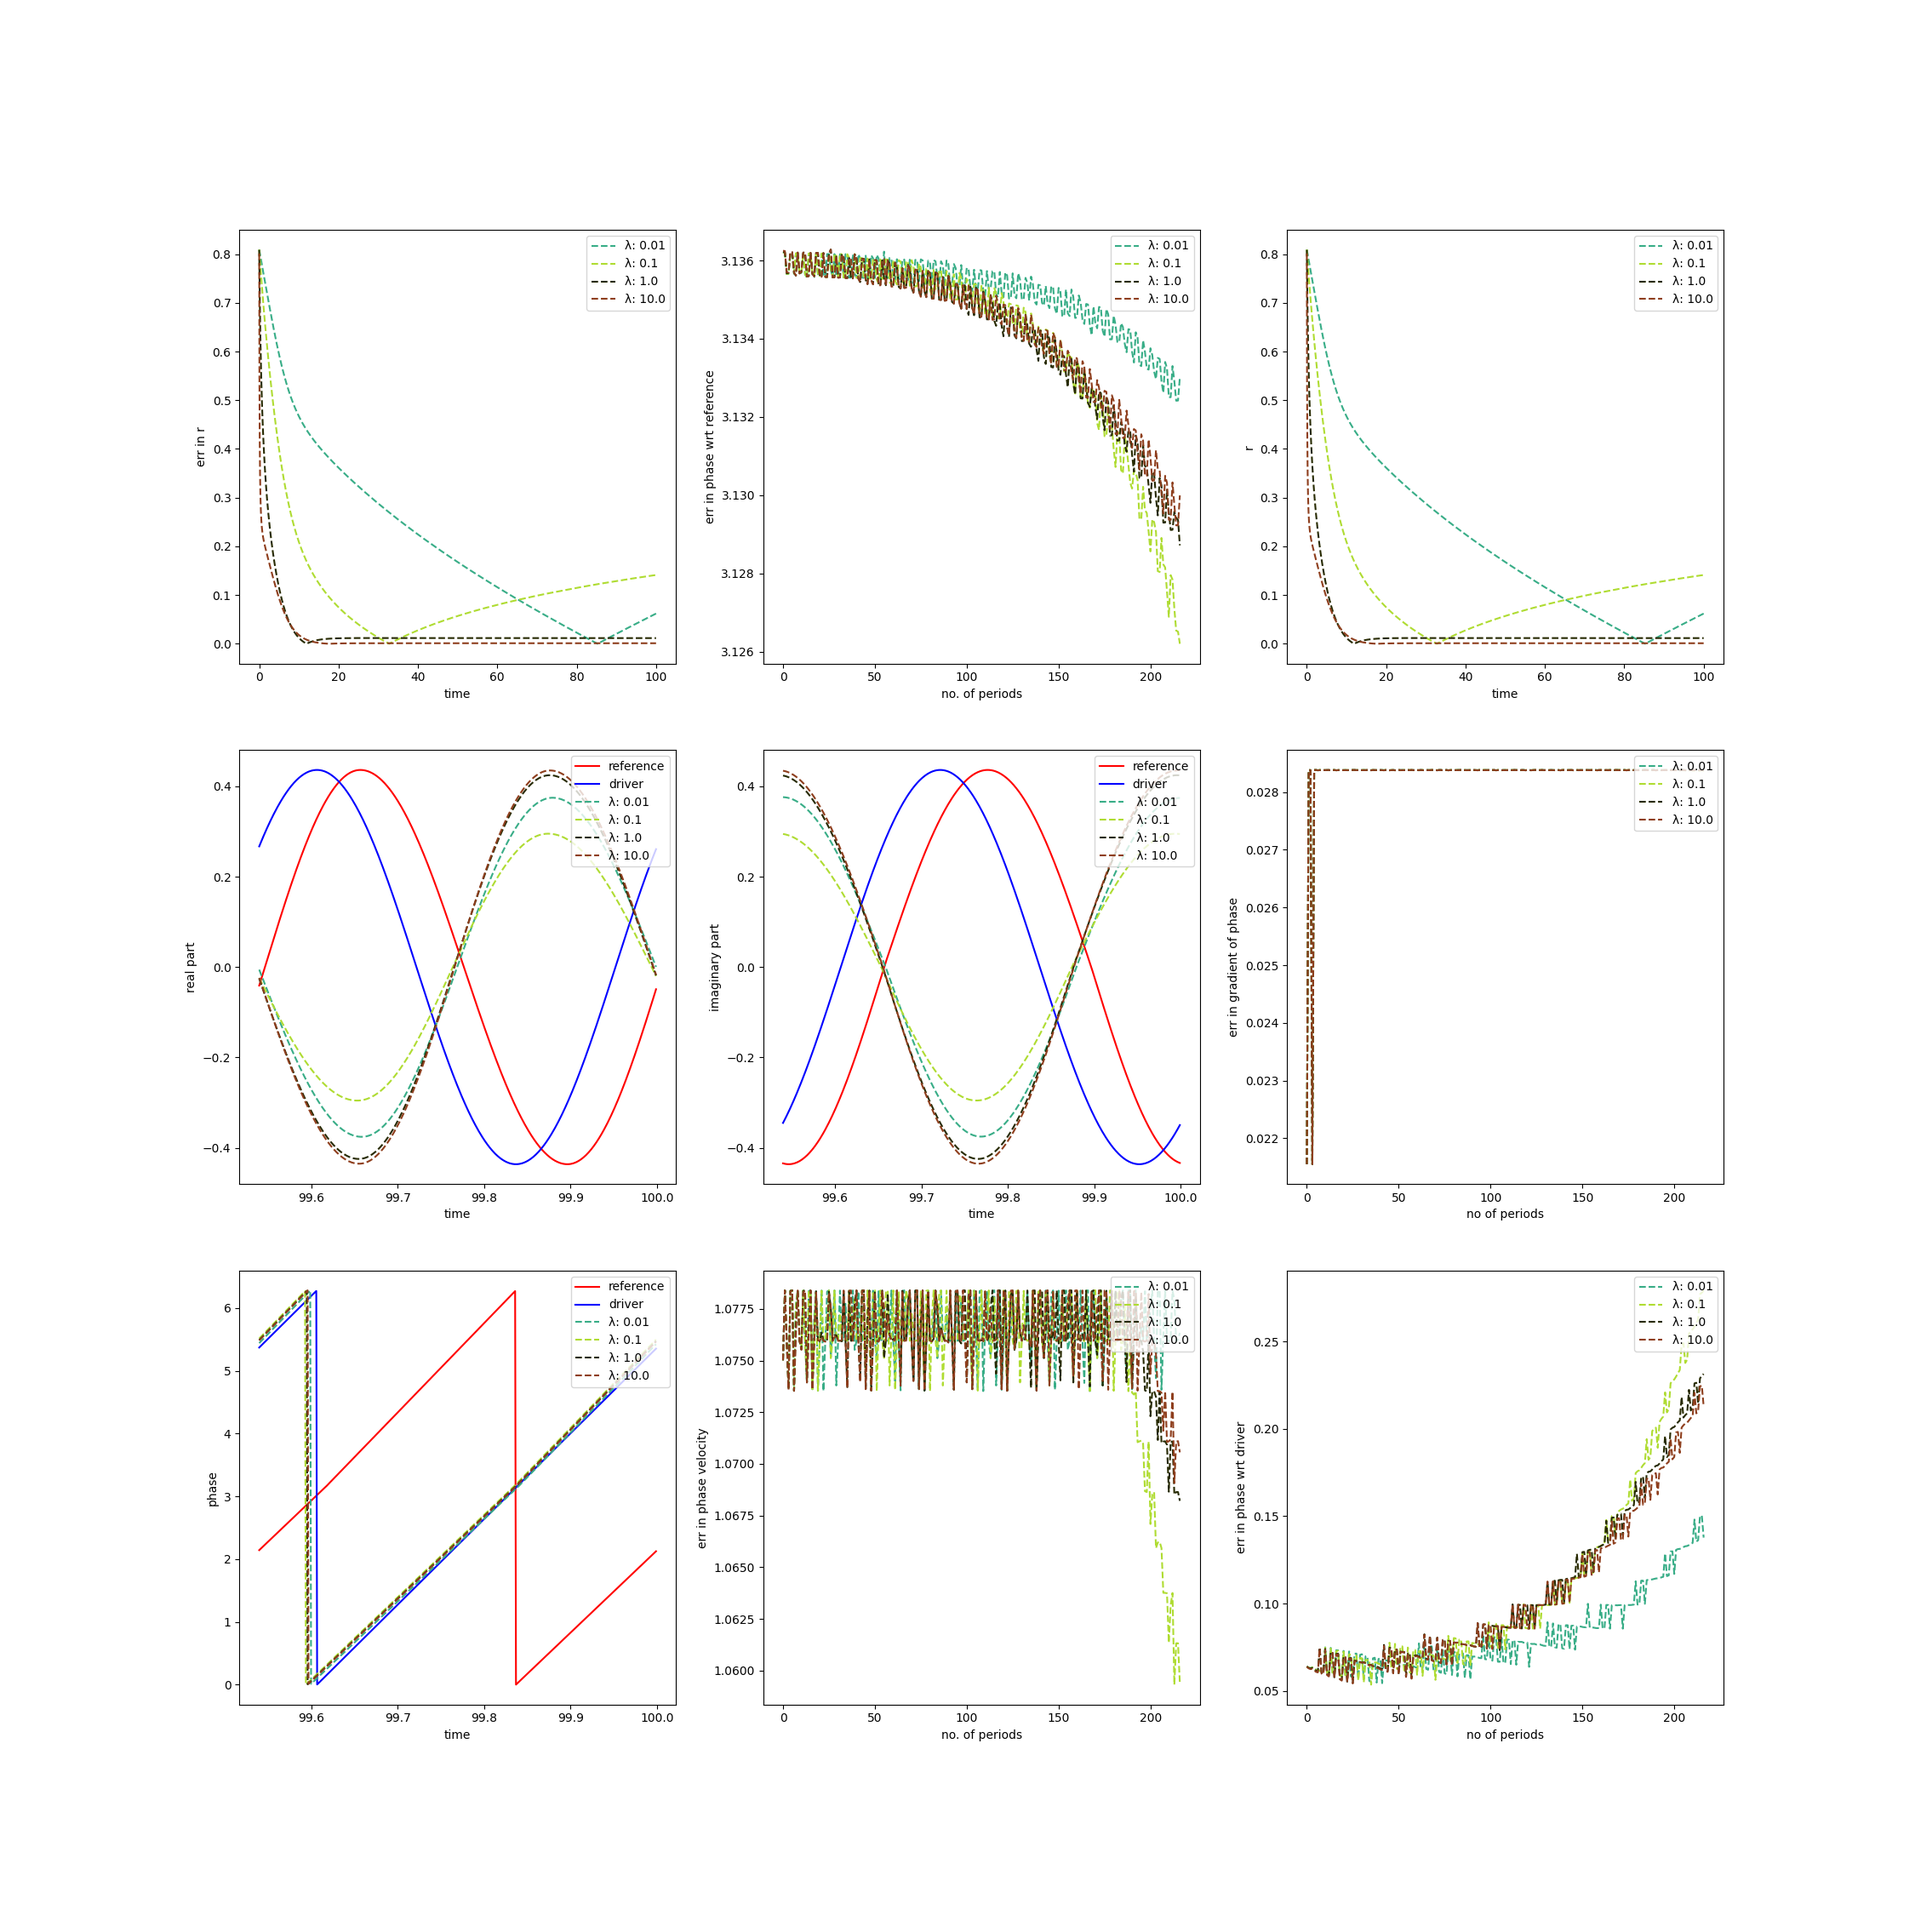
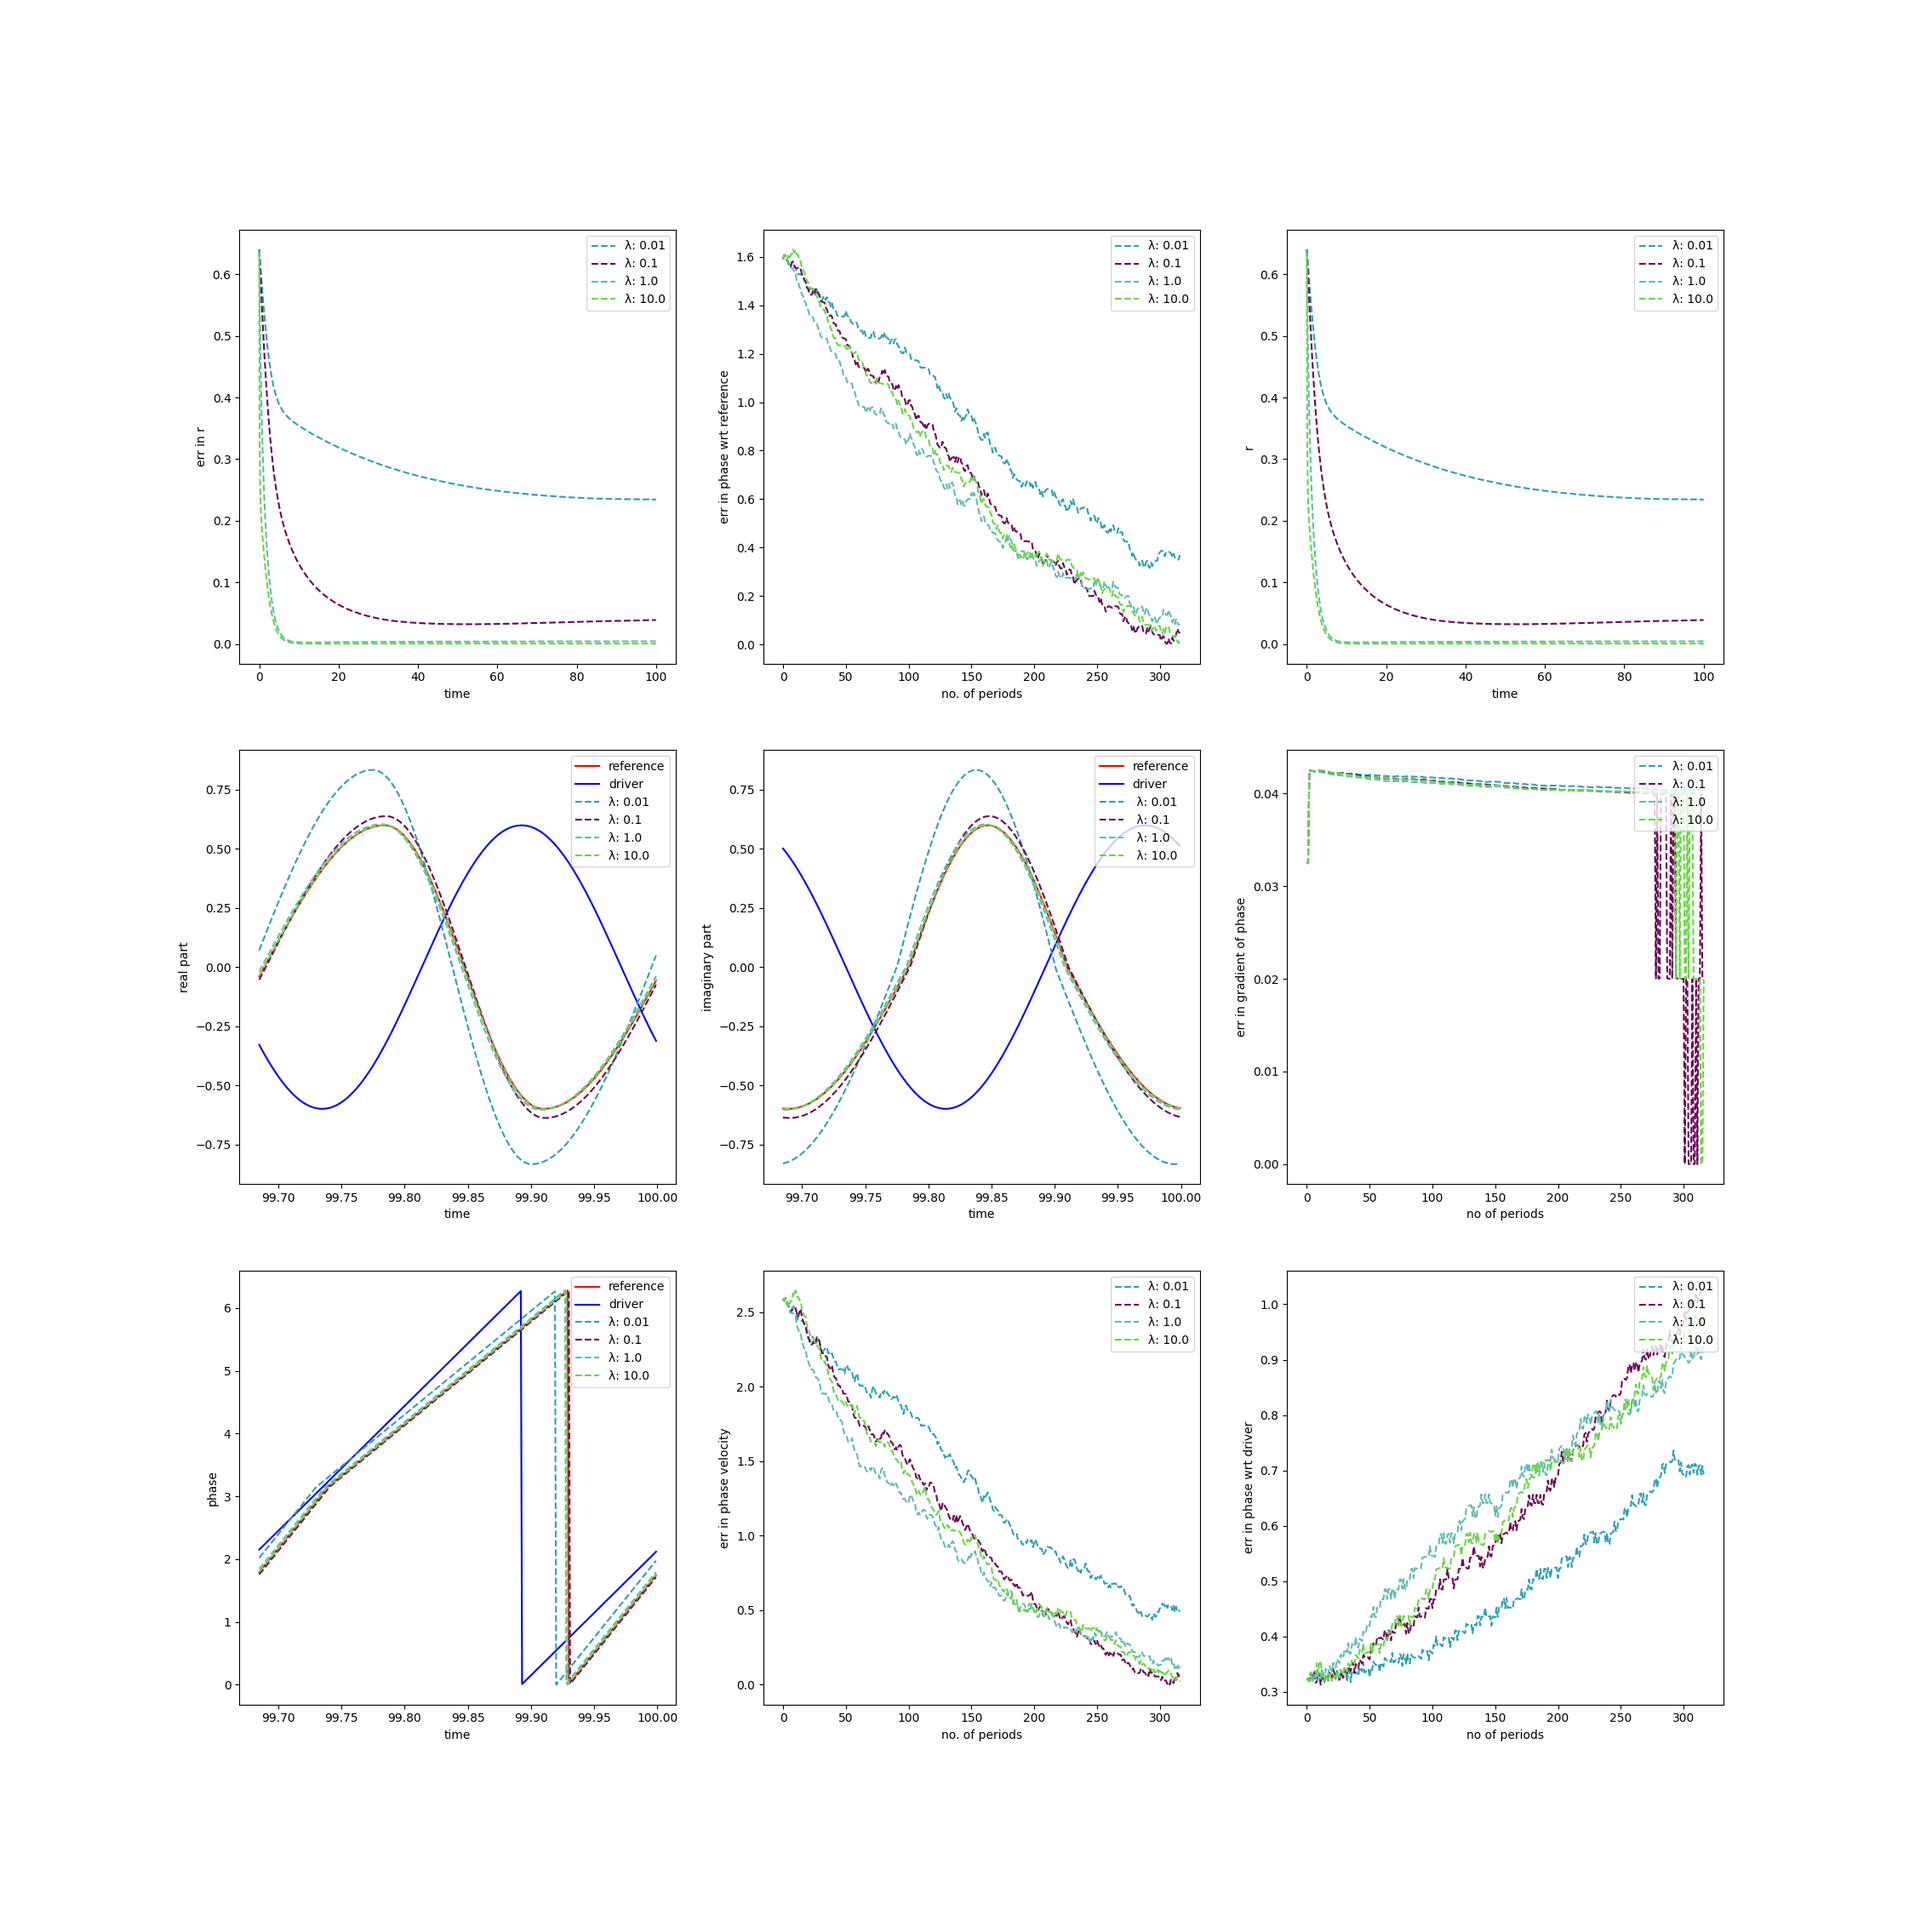
commit new cpg coupling test

diff --git a/Fast-optimal-entrainment/simulation-via-Floquet/ModHopf_Floquet.py b/Fast-optimal-entrainment/simulation-via-Floquet/ModHopf_Floquet.py
@@ -1,0 +1,185 @@
+#%% Calculate Floquet
+import numpy as np
+import nwlib as my
+import matplotlib.pyplot as plt
+import os
+
+pi = np.pi
+
+# simulation parameter
+tmax = 100 # running time for convergence
+dt = 2.5e-5 # step width
+
+ND = my.ND(tmax, dt)
+
+# Van der Pol
+# di/dt = self.mu*i - i*i*i/3.0 - v + self.x0
+# dv/dt = i
+
+c = 0.3 # c = mu
+
+#ModHopf = my.ModHopf(mu, 0, 0) # standard. At first, we calculated with this.
+
+timescale = 10 # Transformation from t to t'=t/timescale
+ModHopf = my.ModHopf_rescale(c, timescale, 0, 0)
+
+# inital point
+Xstart = np.ones((2,1))
+
+print("calculating X to convergence...", end="")
+
+# run to convergence
+Xstart = ND.evol_to_convergence(ModHopf.dif, Xstart)
+print("converged X = ", Xstart.T)
+
+# search period
+
+# The phase is 0 when the y falls below y_basis = 0.0
+Tnum, Xstart = ND.find_Tnum_Y(ModHopf.dif, Xstart, 0.0)
+T = dt * Tnum
+omega = 2*pi/T
+
+print("period T = ", T)
+print("frequency omega = ", omega)
+
+print("calculate limit cycle X0_ ...", end="")
+
+# calculate floquet vector
+Floquet = my.Floquet(ModHopf.dif, ModHopf.Jacobian, Tnum, T, omega, dt)
+
+# limit cycle X0_ and the first floquet vector u0
+X0_, u0_ = Floquet.Calc_X0_u0(Xstart)
+
+print("done")
+print("calculate v0_ ...", end="")
+
+# the first left floquet vector v0_ and v0_dif = d(v0)/dt
+# For convergence from any initial point of v0(0), we evol v0 for rotations = 10 times.
+v0_, v0_dif = Floquet.Calc_v0(X0_, 10)
+
+print("done")
+print("calculate u1_ ...", end="")
+
+# the second right floquet vector u1_ and floqet eigenvalue lambda1
+# For convergence from any initial point of u0(0), we evol u0 for rotations = 2 times.
+lambda1, u1_ = Floquet.Calc_u1(X0_, u0_, v0_, 2)
+
+print("done")
+print("calculate v1_ ...", end="")
+# the second left floquet vector v1_
+# For convergence from any initial point of v1(0), we evol v1 for rotations = 2 times.
+v1_ = Floquet.Calc_v1(lambda1, X0_, u0_, v0_, u1_, 2)
+
+print("done")
+print("")
+print("calculating floquet vector has finished")
+
+#%%
+###### plot #######################################################
+## verificate production of floquet vector
+fig = plt.figure(0, figsize=(8.0, 6.0))
+ax1 = fig.add_subplot(2,2,1)
+ax2 = fig.add_subplot(2,2,2)
+ax3 = fig.add_subplot(2,2,3)
+ax4 = fig.add_subplot(2,2,4)
+
+Time_ax = np.linspace(0,Tnum-1, Tnum)*dt
+
+fig.suptitle("Verification of floquet product")
+# <u0,v0>
+ax1.plot(Time_ax, Floquet.product(u0_, v0_))
+ax1.set_title('<u0,v0>')
+ax1.grid()
+# <u0,v1>
+ax2.plot(Time_ax, Floquet.product(u0_, v1_))
+ax2.set_title('<u0,v1>')
+ax2.grid()
+# <u0,v2>
+ax3.plot(Time_ax, Floquet.product(u1_, v0_))
+ax3.set_title('<u1,v0>')
+ax3.grid()
+# <u0,v0>
+ax4.plot(Time_ax, Floquet.product(u1_, v1_))
+ax4.set_title('<u1,v1>')
+ax4.grid()
+
+## preparation for drawing and saving floquet vector #####################################
+
+figpath = "fig/ModHopf/Floquet/"
+os.makedirs(figpath, exist_ok=True) # make folder
+
+datapath = "data/ModHopf/Floquet/"
+os.makedirs(datapath, exist_ok=True) # make folder
+
+## u0_ 
+filename = "u0_.pdf"
+filepath = figpath + filename
+
+plt.figure(1)
+plt.plot(Time_ax, u0_[0,:], label = r"$u_{0x}$", color = 'r')
+plt.plot(Time_ax, u0_[1,:], linestyle = '--', label = r"$u_{0y}$", color = 'g')
+plt.xlabel(r"$\theta$", size = 20)
+plt.ylabel(r"$u_0$", size = 20)
+
+plt.xticks([0, T/4, T/2, 3*T/4, T], [ "0", "π/2", "π", "3π/2", "2π"])
+#plt.xticks([0, T/4, T/2, 3*T/4, T], [ "0", "T/4", "T/2", "3T/4", "T"])
+plt.xlim(0,T)
+plt.ylim(-1.3,1.3)
+plt.legend(fontsize=17)
+plt.savefig(filepath, bbox_inches="tight", pad_inches=0.0, transparent=True)
+
+## u1_
+filename = "u1_.pdf"
+filepath = figpath + filename
+
+plt.figure(2)
+plt.plot(Time_ax, u1_[0,:], label = r"$u_{1x}$", color = 'b')
+plt.plot(Time_ax, u1_[1,:], linestyle = '--', label = r"$u_{1y}$", color = 'orange')
+plt.xlabel(r"$\theta$", size = 20)
+plt.ylabel(r"$u_1$", size = 20)
+
+plt.xticks([0, T/4, T/2, 3*T/4, T], [ "0", "π/2", "π", "3π/2", "2π"])
+plt.xlim(0,T)
+plt.ylim(-1.3,1.3)
+plt.legend(fontsize=17)
+plt.savefig(filepath, bbox_inches="tight", pad_inches=0.0, transparent=True)
+
+## v0_
+filename = "v0_.pdf"
+filepath = figpath + filename
+
+plt.figure(3)
+plt.plot(Time_ax, v0_[0,:], label = r"$v_{0x}$", color = 'r')
+plt.plot(Time_ax, v0_[1,:], linestyle = '--', label = r"$v_{0y}$", color = 'g')
+plt.xlabel(r"$\theta$", size= 20)
+plt.ylabel(r"$v_0$", size = 20)
+
+plt.xticks([0, T/4, T/2, 3*T/4, T], [ "0", "π/2", "π", "3π/2", "2π"])
+plt.xlim(0,T)
+plt.ylim(-1.1,1.1)
+plt.legend(fontsize=17)
+plt.savefig(filepath, bbox_inches="tight", pad_inches=0.0, transparent=True)
+
+## v1_
+filename = "v1_.pdf"
+filepath = figpath + filename
+
+plt.figure(4)
+plt.plot(Time_ax, v1_[0,:], label = r"$v_{1x}$", color = 'b')
+plt.plot(Time_ax, v1_[1,:], linestyle = '--', label = r"$v_{1y}$", color = 'orange')
+plt.xlabel(r"$\theta$", size = 20)
+plt.ylabel(r"$v_1$", size = 20)
+
+plt.xticks([0, T/4, T/2, 3*T/4, T], [ "0", "π/2", "π", "3π/2", "2π"])
+plt.xlim(0,T)
+plt.ylim(-1.4,1.4)
+plt.legend(fontsize=17)
+plt.savefig(filepath, bbox_inches="tight", pad_inches=0.0, transparent=True)
+
+## save data
+X0_.dump(datapath + 'X0_.dat')
+u0_.dump(datapath + 'u0_.dat')
+u1_.dump(datapath + 'u1_.dat')
+v0_.dump(datapath + 'v0_.dat')
+v1_.dump(datapath + 'v1_.dat')
+

diff --git a/Fast-optimal-entrainment/simulation-via-Floquet/nwlib.py b/Fast-optimal-entrainment/simulation-via-Floquet/nwlib.py
@@ -47,7 +47,7 @@ class ND:
             n += 1
             if n > 1e8:
                 print("Limitcycle doesn't pass 'y_basis'")
-                exit
+                raise NotImplementedError
             y_temp = X[1,0]
         Tnum = num[1] - num[0] 
         return Tnum, Xstart
@@ -71,7 +71,7 @@ class ND:
             n += 1
             if n > 1e8:
                 print("Limitcycle doesn't pass 'x_basis'")
-                exit
+                raise NotImplementedError
             x_temp = X[0,0]
         Tnum = num[1] - num[0] 
         return Tnum, Xstart
@@ -503,7 +503,7 @@ class ModHopf:
         F = np.array([[fx], [fy]], dtype = np.float32)
         return F
 
-    def dif_per(self, X, q1):
+    def dif_per1(self, X, q1):
         x = X[0, 0]
         y = X[0, 0]
         phi = np.arctan2(y, x)
@@ -515,9 +515,109 @@ class ModHopf:
         F = np.array([[fx], [fy]], dtype = np.float32)
         return F
 
+    def dwdx(self, x, y):
+        return -self.amplitude * 1e3 * y * (
+            1 - np.tanh(1e3 * np.arctan2(y, x)) ** 2
+        ) / (x ** 2 + y ** 2)
+
+    def dwdy(self, x, y):
+        return self.amplitude * 1e3 * x * (
+            1 - np.tanh(1e3 * np.arctan2(y, x)) ** 2
+        ) / (x ** 2 + y ** 2)
+
     def Jacobian(self, X):
         x = X[0, 0]
         y = X[1, 0]
+        phi = np.arctan2(y, x)
+        omega = self.omega * (
+            self.mean + self.amplitude * _get_omega_choice(phi)
+        ) / 2
+        f1x = 1 - 3 * x * x - y * y - y * self.dwdx(x, y)
+        f1y = -2 * x * y - omega - y * self.dwdy(x, y)
+        f2x = -2 * x * y + omega + x * self.dwdx(x, y)
+        f2y = 1 - 3 * y * y - x * x + x * self.dwdy(x, y)
+        J = np.array([[f1x, f1y],
+                      [f2x, f2y]])
+        return J
+
+class ModHopf_rescale:
+    def __init__(self, omega, timescale):
+        self.omega = omega
+        self.C = np.load('../../assets/out/plots/coef.npy')
+        self.degree = 15
+        beta = _get_beta(self.omega, self.C, self.degree)
+        self.mean = np.abs(1 / (2 * self.beta * (1 - self.beta)))
+        self.amplitude = (1 - 2 * self.beta) / (2 * self.beta * (1 - self.beta))
+        self.timescale = timescale
+
+    def dif(self, X):
+        x = X[0, 0]
+        y = X[0, 0]
+        fx = (1 - x ** 2 + y ** 2) * x - self.omega * y
+        fy = (1 - x ** 2 + y ** 2) * y + self.omega * x
+        F = np.array([[fx], [fy]], dtype = np.float32) * self.timescale
+        return F
+
+    def dif_per(self, X, q):
+        x = X[0, 0]
+        y = X[0, 0]
+        phi = np.arctan2(y, x)
+        omega = self.omega * (
+            self.mean + self.amplitude * _get_omega_choice(phi)
+        ) / 2
+        fx = (1 - x ** 2 + y ** 2) * x - omega * y + q[0, 0]
+        fy = (1 - x ** 2 + y ** 2) * y + omega * x + q[1, 0]
+        F = np.array([[fx], [fy]], dtype = np.float32) * self.timescale
+        return F
+
+    def dif_per(self, X, q1):
+        x = X[0, 0]
+        y = X[0, 0]
+        phi = np.arctan2(y, x)
+        omega = self.omega * (
+            self.mean + self.amplitude * _get_omega_choice(phi)
+        ) / 2
+        fx = (1 - x ** 2 + y ** 2) * x - omega * y + q1
+        fy = (1 - x ** 2 + y ** 2) * y + omega * x
+        F = np.array([[fx], [fy]], dtype = np.float32) * self.timescale
+        return F
+
+    def dif_per1(self, X, q1):
+        x = X[0, 0]
+        y = X[0, 0]
+        phi = np.arctan2(y, x)
+        omega = self.omega * (
+            self.mean + self.amplitude * _get_omega_choice(phi)
+        ) / 2
+        fx = (1 - x ** 2 + y ** 2) * x - omega * y + q1
+        fy = (1 - x ** 2 + y ** 2) * y + omega * x
+        F = np.array([[fx], [fy]], dtype = np.float32) * self.timescale
+        return F
+
+    def dwdx(self, x, y):
+        return -self.amplitude * 1e3 * y * (
+            1 - np.tanh(1e3 * np.arctan2(y, x)) ** 2
+        ) / (x ** 2 + y ** 2)
+
+    def dwdy(self, x, y):
+        return self.amplitude * 1e3 * x * (
+            1 - np.tanh(1e3 * np.arctan2(y, x)) ** 2
+        ) / (x ** 2 + y ** 2)
+
+    def Jacobian(self, X):
+        x = X[0, 0]
+        y = X[1, 0]
+        phi = np.arctan2(y, x)
+        omega = self.omega * (
+            self.mean + self.amplitude * _get_omega_choice(phi)
+        ) / 2
+        f1x = 1 - 3 * x * x - y * y - y * self.dwdx(x, y)
+        f1y = -2 * x * y - omega - y * self.dwdy(x, y)
+        f2x = -2 * x * y + omega + x * self.dwdx(x, y)
+        f2y = 1 - 3 * y * y - x * x + x * self.dwdy(x, y)
+        J = np.array([[f1x, f1y],
+                      [f2x, f2y]]) * self.timescale
+        return J
 
 
 ################van der pol#################################################

diff --git a/oscillator.py b/oscillator.py
@@ -126,6 +126,27 @@ def cpg_step(omega, mu, z1, z2, phase, C, degree, dt = 0.001):
     z2 += dt * params['coupling_strength'] * coupling
     return z2, w, z1
 
+def cpg_step_v2(omega, mu, z1, z2, phase, C, degree, N, dt = 0.001):
+    x1, y1 = np.split(z1, 2, -1)
+    x2, y2 = np.split(z2, 2, -1)
+    xs = np.cos(phase)
+    ys = np.sin(phase)
+    coupling = np.concatenate([
+        xs * x1 - ys * y1,
+        xs * y1 + x1 * ys
+    ], -1)
+    x1, y1 = np.split(coupling, 2, -1)
+    theta = np.arctan2(y2, x2)
+    r = np.sqrt(x2 ** 2 + y2 ** 2)
+    coupling = np.concatenate([
+        np.sin(theta) * (x1 * np.sin(theta) - y1 * np.cos(theta)),
+        np.sin(theta) * (x1 * np.cos(theta) + y1 * np.cos(theta)) + y1
+    ], -1)
+    z1 = hopf_simple_step(omega, mu, z1, dt) 
+    z2, w = hopf_mod_step(omega, mu, z2, C, params['degree'], dt) 
+    z2 += dt * params['coupling_strength'] * coupling
+    return z2, w, z1
+
 def cpg(omega, mu, phase, C, degree, N, dt = 0.001):
     Z1 = []
     Z2 = []
@@ -133,7 +154,7 @@ def cpg(omega, mu, phase, C, degree, N, dt = 0.001):
     z1 = np.array([1, 0], dtype = np.float32)
     z2 = np.array([1, 0], dtype = np.float32)
     for i in range(N):
-        z2, w, z1 = cpg_step(omega, mu, z1, z2, phase, C, degree, dt)
+        z2, w, z1 = cpg_step_v2(omega, mu, z1, z2, phase, C, degree, dt)
         Z1.append(z1.copy())
         Z2.append(z2.copy())
         W.append(w.copy())
